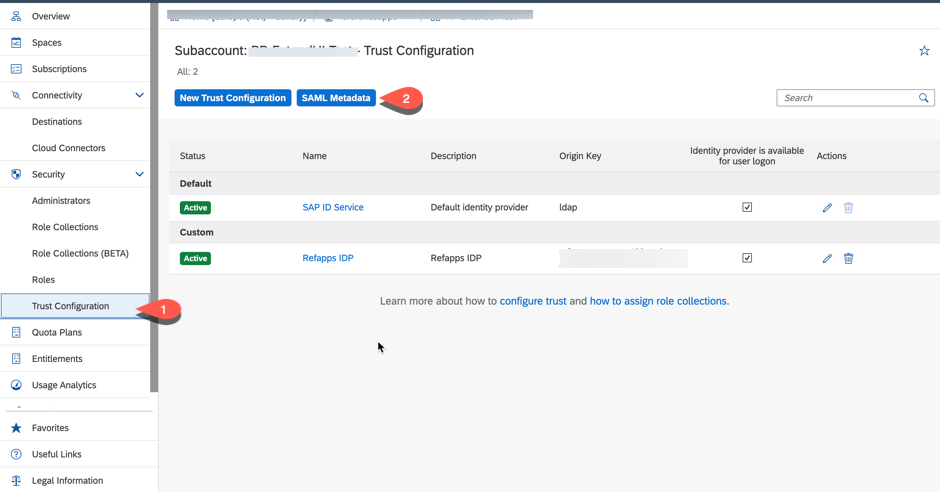
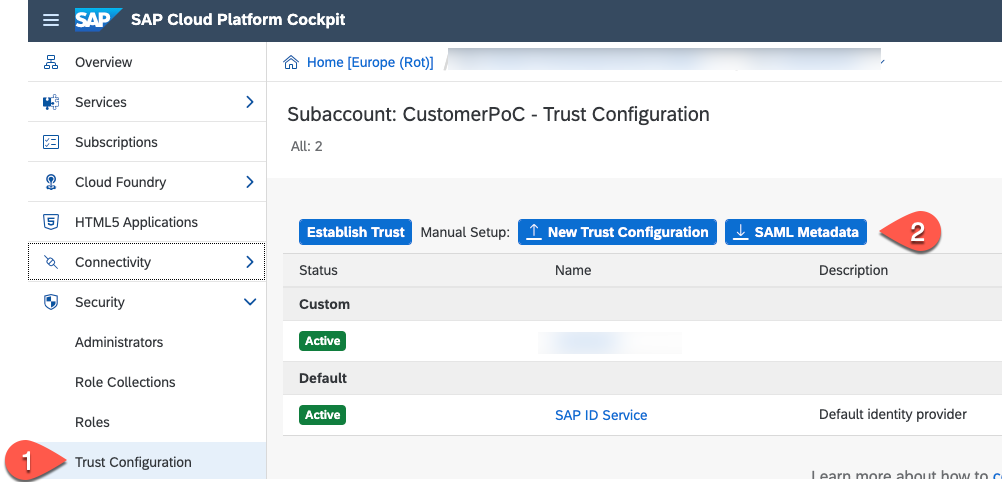
add establish trust

diff --git a/mission/custom-idp/AutomaticTrust.md b/mission/custom-idp/AutomaticTrust.md
@@ -1,0 +1,137 @@
+# Configuring Custom Identity Provider
+
+## Introduction
+
+In this section, we would configure a custom Identity Provider which has the users/employees to login to the SAP Cloud Platform Account.
+Depending on your global account, you might see the default identity provider, which is configured automatically. This cannot be deleted, it can only be enabled or disabled. 
+
+**Persona:** SCP Administrator
+
+
+## Step-by-Step
+
+Use your SAP Cloud Platform Identity Authentication service tenant as an identity provider or a proxy to your own identity provider hosting your business users. This method avoids the upload and download of SAML meta data by using Open ID Connect (OIDC) to establish trust.
+
+### Register SAP Cloud Platform Subaccount in the Custom Identity Provider
+
+You can manage trust configurations for a global account only if you have created the global account or if you are an SCP Administrator of the account and you are an Administrator in your company's Identity and Authentication Tenant(SAP IAS).
+
+Establishing the trust between your company's IDP could be done in an automatic way.
+1. In the Cloud Platform cockpit of your subaccount select Security - Trust Configuration 
+2. Click on 'Establish Trust'
+
+![Establish Trust](./images/CustIDP_AutoTrust.png)
+
+4. In the popup select your Identity provider.
+
+   ***!Hint:** If your Identity provider is not visible then the SAP Cloud Platform Account and the IDP have been created with different Customer IDs - in that case please follow the steps for the manual setup with SAML 2.0: [Link to Manual Setup Guide](./README.md).*
+
+5. Click on Establish Trust
+
+   ![Establish Trust](./images/CustIDP_EstablishTrust.png)
+
+    At the Trust Configuration screen you should see your custome IDP tenant.
+
+   ![Custom IDP](./images/CustIDP_Tenant.png)
+
+6. Now, open your company's Identity and Authentication Tenant (SAP IAS) and login to the same.
+7. Select Application in the Application & Resources section.
+8. You find a generated application starting with XSUAA_. Select this application
+9. Click on the header of the application configuration to change the name 
+     ![Application](./images/CustIDP_AutoApplication.png)
+
+10. Change the display name to a meaningful entry and press Save.
+    
+     ![Application](./images/CustIDP_changeApplicationName.png)
+
+11. Select the OpenID Connect Configuration section.
+
+    ![OpenID Configuration](./images/CustIDP_openId1.png)
+12. Change the name and press save.
+
+
+    ![OpenID Configuration](./images/CustIDP_openId.png)
+
+13. Check if the Subject Name Identifier is set to E-mail. If not change it.
+    ![Subject Name Identifier](./images/CustIDP_subjectName.png) 
+
+14. Select Assertion Attributes
+    
+   ![Assertion Attributes](./images/CustIDP-addAssertion.png) 
+
+15. Click on Add and select the Groups attribute, set the assertion attribute to "Groups" with capital G. Click on save
+ 
+   ![Set Assertion Group](./images/CustIDP-addGroupAssertion.png)  
+
+16. In the Home view select User Groups
+
+   ![User Groups](./images/CustIDP-addGroups.png)
+
+17. Create a Extension Developer group. 
+    * Click on "+ Add"
+    * Set Name = ExtensionDeveloper
+    * Set Display name = ExtensionDeveloper
+    * Enter a description
+    * Press save
+
+   ![User Groups](./images/CustIDP-addGroups2.png)
+
+
+18.  Create a Extension Administrator group.     
+     * Click on "+ Add"
+     * Set Name = ExtensionAdministrator
+     * Set Display name = ExtensionAdministrator
+     * Enter a description
+     * Press save
+  
+19. Map the group to a user which should have the UX extension developer role. 
+    * Open User Management
+    * Select your user  
+    * Click on User Groups
+    * Click on "Assign Groups"
+   
+   ![User Groups](./images/CustIDP-assertGroup.png)
+
+20. Check the ExtensionDeveloper group and click on save.
+   
+   ![User Groups](./images/CustIDP-assertGroup2.png)
+
+    Repeat the last 2 steps for all user that needs the extension developer privilege.
+
+21. Repeat steps 19&20 by mapping the **ExtensionAdministrator** group to all users that should have the UX extension administrator role. 
+
+### Map IDP Groups with Role Collection
+
+1. Go back to your SAP Cloud Platform subaccount
+2. Select the Trust Configuration in the Security section.
+3. Now let us disable the default SAP Identity Provider. Click on Edit button of SAP ID Service.
+4.  Change Status to Inactive.
+
+    ![Disable DefaultIDP](./images/CustIDP-disableDefaultIDP.png)
+5.  Click on Save button.
+
+6.  Click on your Custom IDP.
+    
+    ![Role Mapping](./images/CustIDP_RoleMapping1.png)
+
+7.  Select "Role-Collection Mappings" and click on "New Role Collection Mapping"
+    
+    ![Role Mapping](./images/CustIDP_RoleMapping2.png)
+
+8.  Select the "Extension_UX_Developer" role collection. Set "ExtensionDeveloper" as value and click save.
+    
+    ![Map Extension Developer role](./images/CustIDP_RoleMapping3.png)
+
+
+9.  Repeat steps 13-14 and map the Extension_UX_Administrator role collection to the ExtensionAdministrator group
+
+    ![Map Extension Developer role](./images/CustIDP_RoleMapping4.png)    
+
+10.  Open the SAP Business Application Studio in Subscriptions and see if your are able to login. (If you have already a open session restart your browser).
+
+
+### References
+Check the [official SAP Help documentation](https://help.sap.com/viewer/65de2977205c403bbc107264b8eccf4b/Cloud/en-US/161f8f0cfac64c4fa2d973bc5f08a894.html).
+    
+
+
